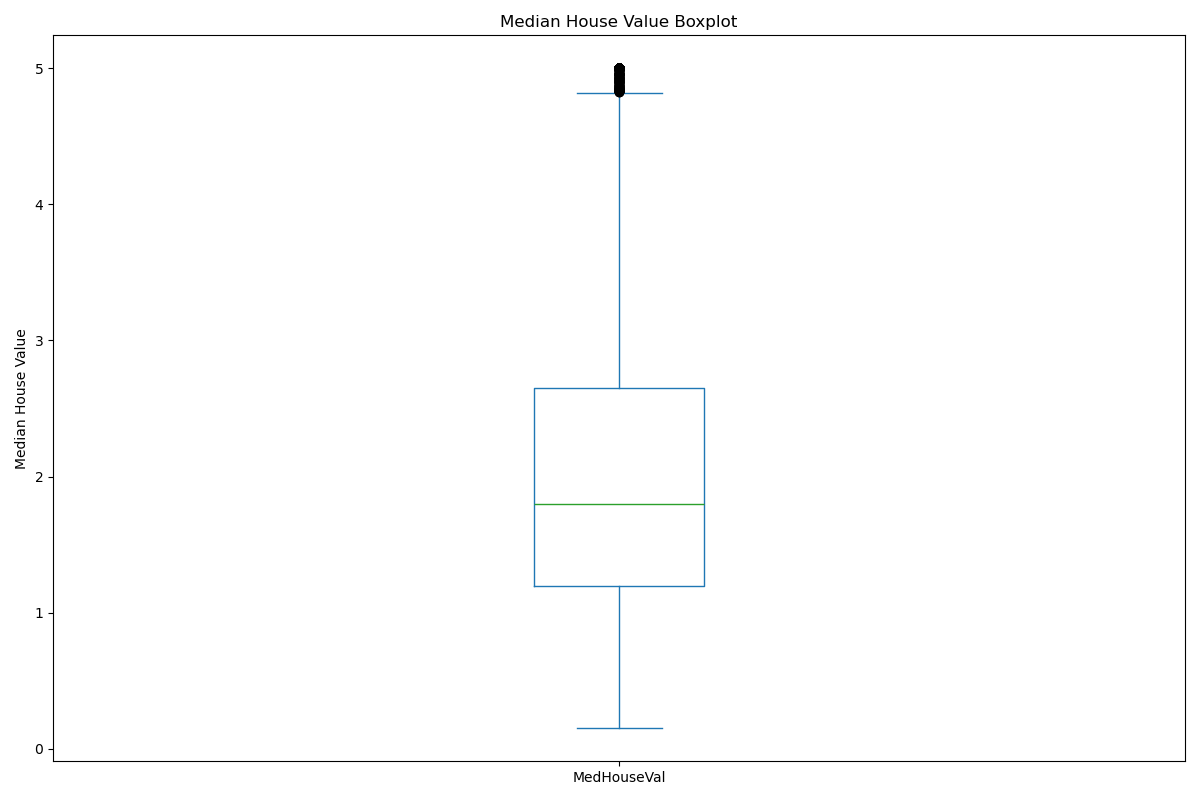
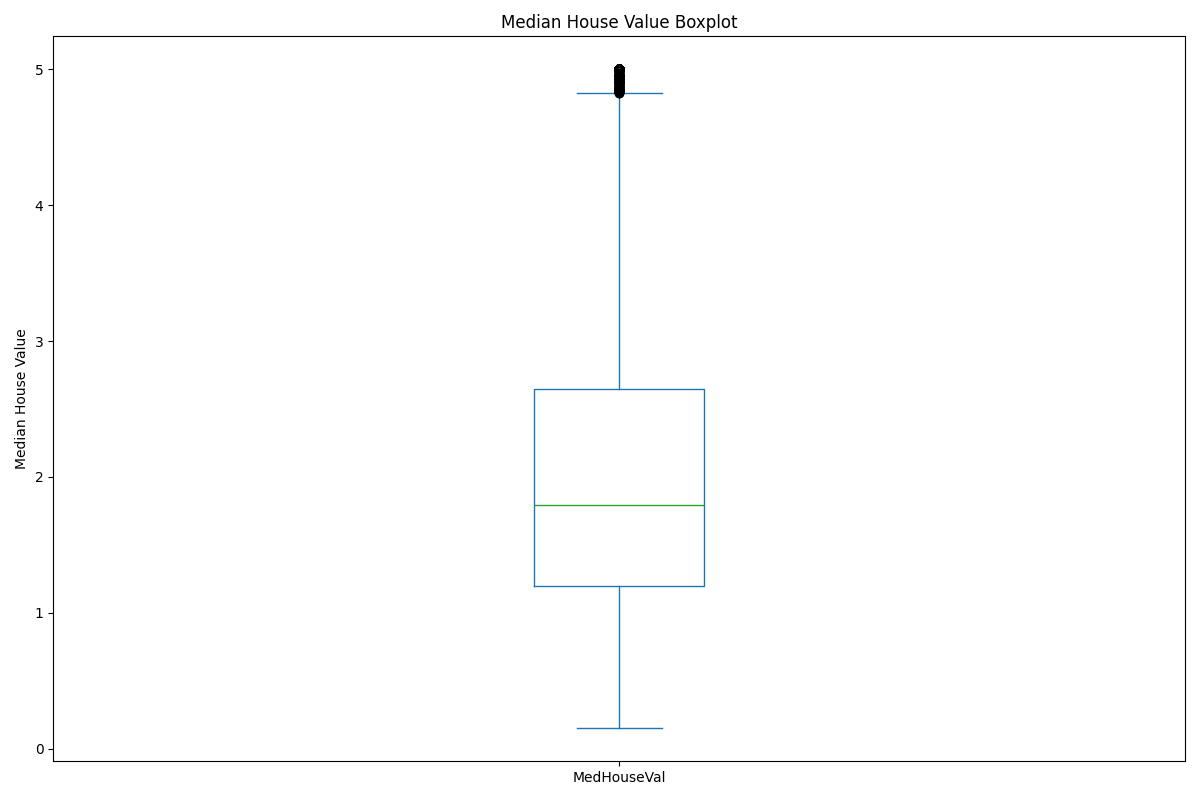
updated readme with more plots
calculate the predictions for validation and test partitions
Include plots for validation and test partitions
update the readme file

Changed region(s): [[0.4008, 0.0, 0.6167, 0.0625], [0.4625, 0.625, 0.5858, 0.6562], [0.4625, 0.4688, 0.5858, 0.5]]

diff --git a/src/ds_pipeline.py b/src/ds_pipeline.py
@@ -56,11 +56,12 @@ mlp=MLPRegressor(random_state=42,
 
 mlp.fit(X_train_scaled, y_train)
 
-# Step 4: Add train predictions and plot
+# Step 4: Add train, validation and test predictions and plot
 import numpy as np
 
 y_pred_train = mlp.predict(X_train_scaled)
 y_pred_val   = mlp.predict(X_val_scaled)
+y_pred_test  = mlp.predict(X_test_scaled)
 
 # Plot
 # Scatterplots: predicted vs actual 
@@ -75,9 +76,21 @@ def scatter_with_reference(y_true, y_pred, title):
     plt.title(title)
     plt.tight_layout()
 
+#Plot for train parition
 scatter_with_reference(y_train, y_pred_train, "Predicted vs Actual — Train")
-
-
 plt.savefig("figures/train_actual_vs_predicted.png") # saved train scatterplot image
 plt.show()
 plt.close()
+
+#Plot for validation partition
+scatter_with_reference(y_val, y_pred_val, "Predicted vs Actual — Validation")
+plt.savefig("figures/Validation_actual_vs_predicted.png") # saved validation scatterplot image
+plt.show()
+plt.close()
+
+#Plot for test partition
+scatter_with_reference(y_test, y_pred_test, "Predicted vs Actual — Test")
+plt.savefig("figures/Test_actual_vs_predicted.png") # saved test scatterplot image
+plt.show()
+plt.close()
+

diff --git a/README.md b/README.md
@@ -1,10 +1,12 @@
 # A02-kgm19004-zhb17002
 A02 Assignment - Ping Pong
 
-Hey its Kaitlyn! - Welcome to our repo!
-1. I have completed the data download and the train/test split
+Hey it's Kaitlyn and Zhenzhe! - Welcome to our repo!
 
-Kaitlyn again!
-1. I ploted the actual vs predicted of the training data.
-2. I added hidden layers to your mlp as it is required as well as a batch size.
-3. Saved plot in figures.
+We use the California Housing Dataset from scikit-learn for this project. We build a neural network by using MLPRegressor to predict house prices and generate a scatter plot to compare our predictions with actual values. We also work together to be familiar with how to use the GitHub platform. We create new branches, send PR requests, then review each other’s code and merge the branches back to main.
+
+We completed the following task for this project:
+1. Download the data and split it into train, validation, and test 
+2. Created a box plot for variable MedHouseVal
+3. Build a neural network and predict the house price
+4. Creating the scatter plot to compare our prediction with the actual value and save the plots.
